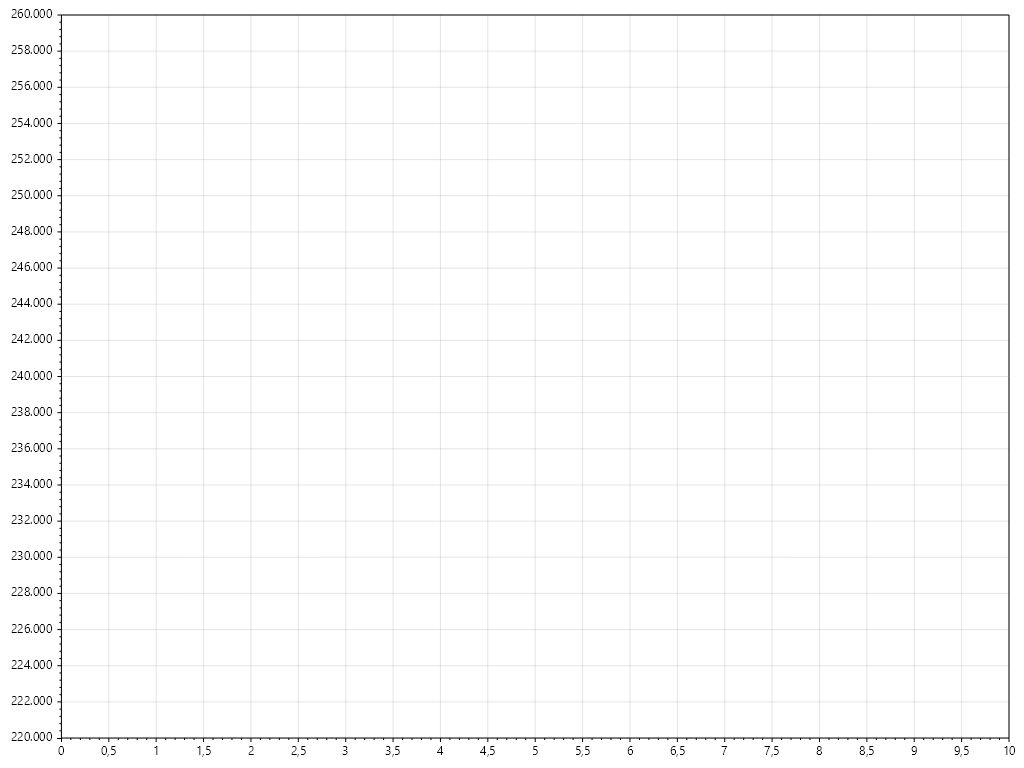
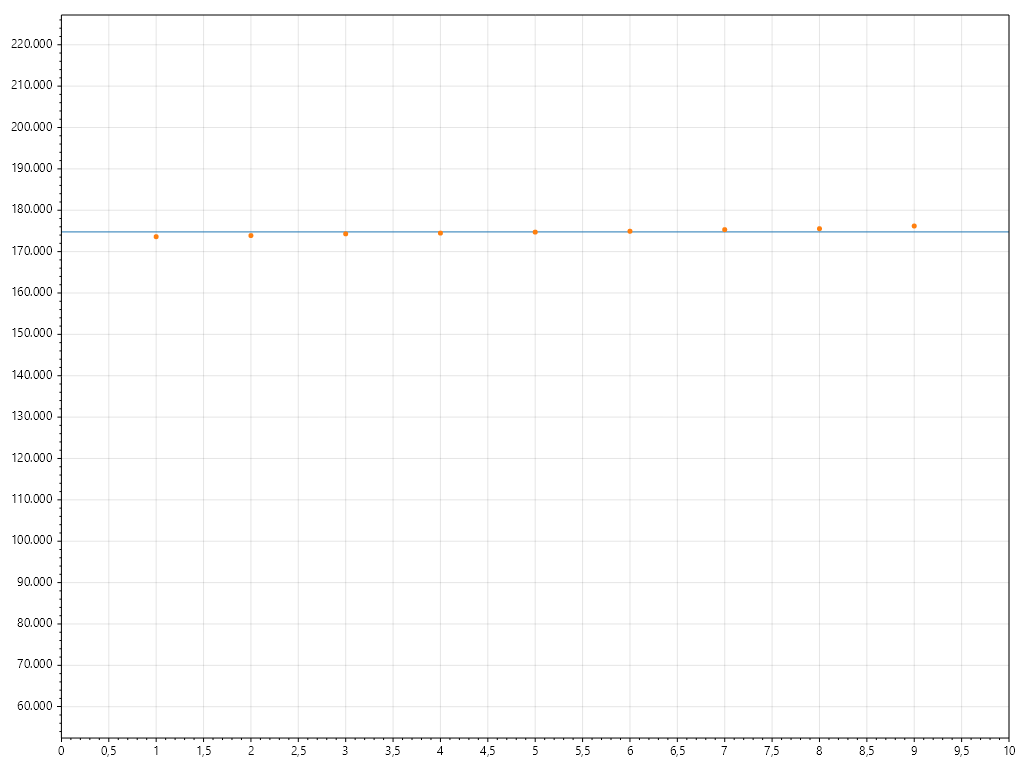
as

diff --git a/RadProject/Program.cs b/RadProject/Program.cs
@@ -123,15 +123,17 @@ namespace RadProject
                 long QSEstimSum = 0;
                 foreach (long x in QSTable)
                 {          
-                    meanSquareError += (long)Math.Pow(x-quadraticSum,2)/testCount;
+                    meanSquareError += (long)Math.Pow(x - quadraticSum,2);
                     mean += x;
                 }
+                meanSquareError = meanSquareError/testCount;
                 mean = mean/testCount;
                 foreach (long x in QSTable)
                 {          
-                    variance += (long)Math.Pow(mean-x,2)/testCount;
+                    variance += (long)Math.Pow(mean-x,2);
                     QSEstimSum += x;
                 }
+                variance = variance/testCount;
                 Console.WriteLine("Average Runtime: " +avgRuntime);
                 Console.WriteLine("Mean square error: " +meanSquareError);
                 Console.WriteLine("Anticipated Expected value: " + quadraticSum + " Mean: " + mean);
@@ -148,11 +150,13 @@ namespace RadProject
                 List<long> QSTablemedians = new List<long>();
                 foreach (var group in QSTableGroups)
                 {
+                    long median;
                     group.Sort();
-                    long median = group[group.Count / 2];
+                    median = group[group.Count / 2];
                     QSTablemedians.Add(median);
                 }
                 QSTablemedians.Sort();
+                Console.WriteLine("Medians: " + string.Join(", ", QSTablemedians));
 
                 // Create a Plot object
                 var plt = new ScottPlot.Plot();
@@ -160,7 +164,7 @@ namespace RadProject
                 plt.Add.Line(0, quadraticSum,100, quadraticSum);
                 List<int> numbers = Enumerable.Range(1, 100).ToList();
                 plt.Add.ScatterPoints(numbers, QSTable);
-                plt.Axes.SetLimits(0, 100, 220000, 260000);
+                plt.Axes.SetLimits(0, 100, quadraticSum*0.3, quadraticSum*1.3);
                 string filepath1=$"100ResultsPlotT{t}.png";
                 plt.SavePng(filepath1, 1024, 768);
                 Console.WriteLine("100 points Plot saved in directory");
@@ -168,9 +172,9 @@ namespace RadProject
                 var plt2 = new ScottPlot.Plot();
                 // Add a scatter plot
                 plt2.Add.Line(0, quadraticSum,10, quadraticSum);
-                List<int> numbers2 = Enumerable.Range(1, 10).ToList();
+                List<int> numbers2 = Enumerable.Range(1, 9).ToList();
                 plt2.Add.ScatterPoints(numbers2, QSTablemedians);
-                plt2.Axes.SetLimits(0, 10, 220000, 260000);
+                plt2.Axes.SetLimits(0, 10, quadraticSum*0.3, quadraticSum*1.3);
                 string filepath2=$"MediansPlotT{t}.png";
                 plt2.SavePng(filepath2, 1024, 768);
                 Console.WriteLine("medians Plot saved in directory");

diff --git a/RadProject/CountSketch.cs b/RadProject/CountSketch.cs
@@ -23,7 +23,7 @@ public class CountSketch {
                     //Console.WriteLine("aaa"+C[hHash]);
                 }
                 else {
-                    C.Add(hHash, sHash);
+                    C.Add(hHash, sHash*tuple.Item2);
                     //Console.WriteLine("aaa"+C[hHash]);
                 }  
         }
